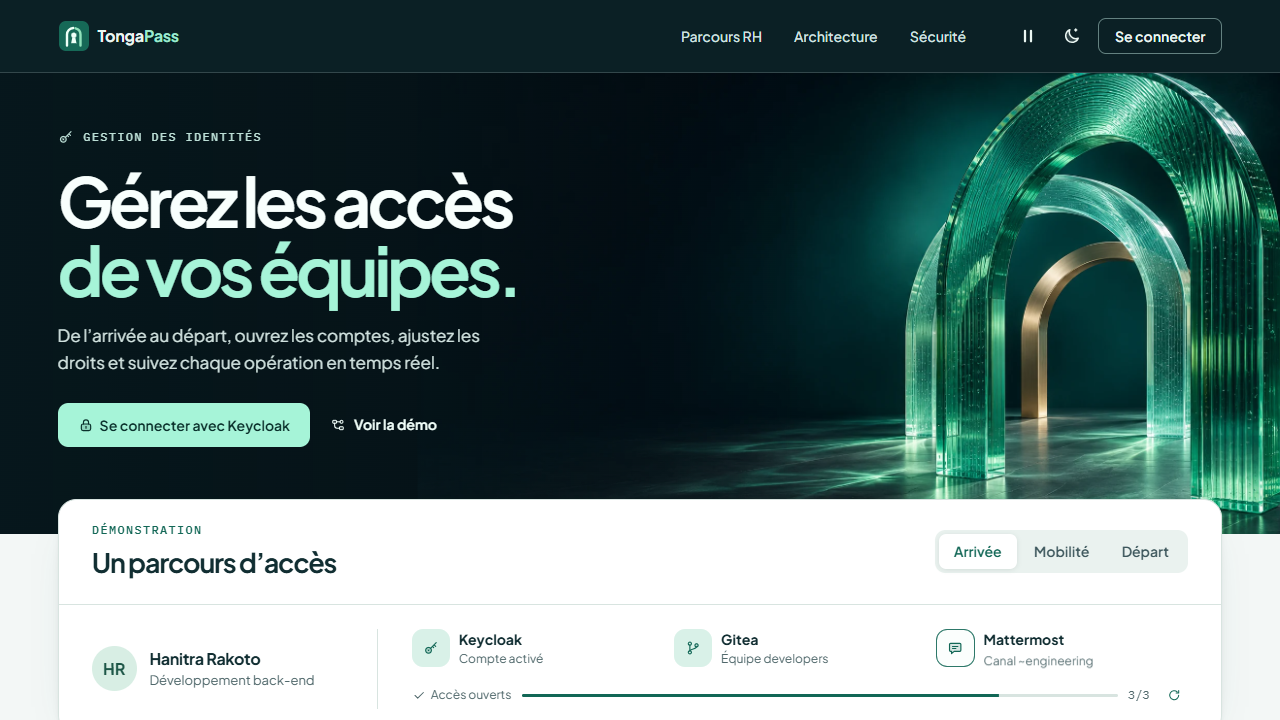
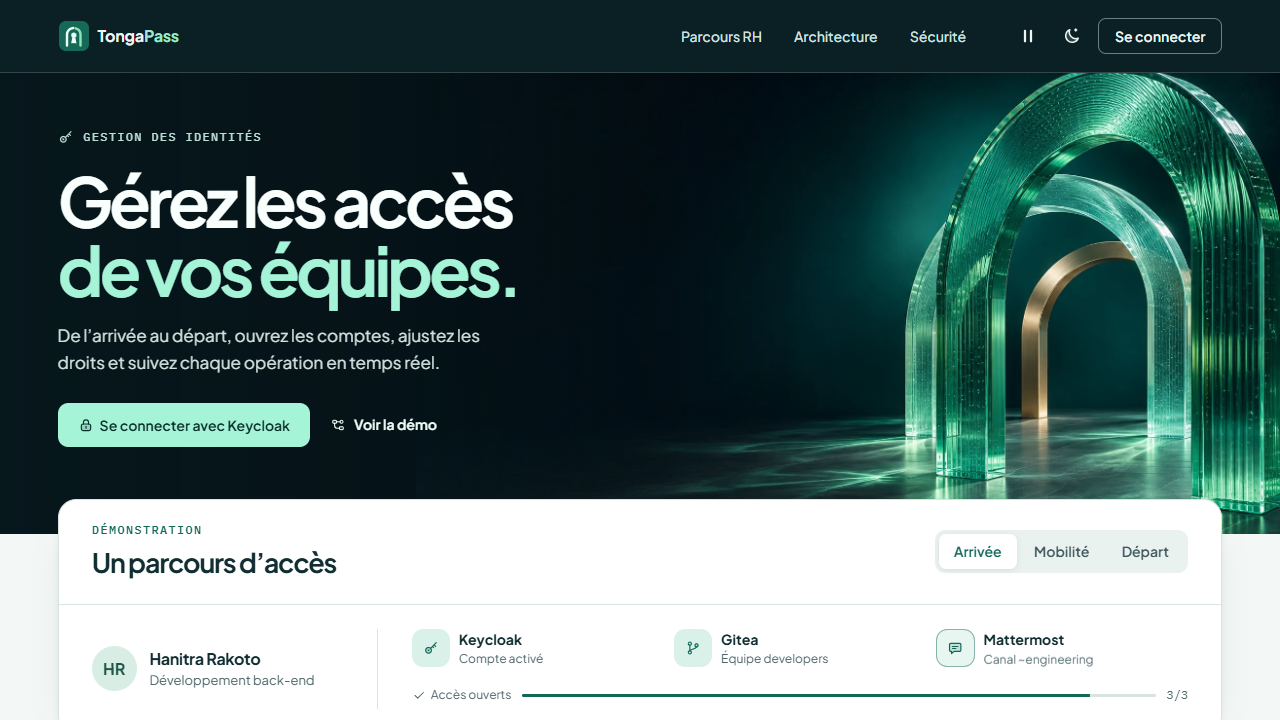
ui: retirer les boutons Rejouer de la démonstration

Changed region(s): [[0.8125, 0.0917, 1.0, 0.7333], [0.7812, 0.9167, 0.8438, 0.9778], [0.875, 0.9472, 0.9375, 0.9778]]

diff --git a/apps/portal/src/components/landing/FlowDiagram.tsx b/apps/portal/src/components/landing/FlowDiagram.tsx
@@ -1,7 +1,6 @@
-import { useId, useState } from 'react';
+import { useId } from 'react';
 import { useVisiblePlayback } from '@/hooks/useVisiblePlayback';
 import { FLOW_STEPS } from './flow-steps';
-import { IconRetry } from '@/components/icons';
 import { IconAutomation, IconBranch, IconChat, IconKey, IconLayers, IconLedger, IconMail, IconPeople, type IconComponent } from '@/components/icons';
 
 interface Node {
@@ -42,10 +41,9 @@ const EDGES = [
  * Le portail appelle l'API, qui déclenche n8n ; n8n agit sur
  * chaque outil et renvoie des rappels signés (en pointillés) vers l'API.
  */
-export function FlowDiagram({ enabled, reduced }: { enabled: boolean; reduced: boolean }) {
+export function FlowDiagram({ enabled }: { enabled: boolean }) {
   const uid = useId().replace(/:/g, '');
   const { ref, playing } = useVisiblePlayback<HTMLDivElement>(enabled);
-  const [playback, setPlayback] = useState(0);
   return (
     <div ref={ref} className="architecture-flow" data-playing={playing}>
       <div className="architecture-map panel mt-6 hidden rounded-2xl p-6 lg:block">
@@ -58,7 +56,7 @@ export function FlowDiagram({ enabled, reduced }: { enabled: boolean; reduced: b
           {EDGES.map((edge) => (
             <g key={edge.id}>
               <path d={edge.d} fill="none" stroke={'back' in edge ? 'var(--tp-accent)' : 'var(--tp-ink-3)'} strokeWidth="1.4" strokeDasharray={'back' in edge ? '5 4' : undefined} />
-              <path key={playback} className="flow-packet" data-edge={edge.id} d={edge.d} fill="none" pathLength="1" stroke="var(--tp-brand)" strokeLinecap="round" strokeWidth="3" strokeDasharray=".09 1.1" aria-hidden="true" />
+              <path className="flow-packet" data-edge={edge.id} d={edge.d} fill="none" pathLength="1" stroke="var(--tp-brand)" strokeLinecap="round" strokeWidth="3" strokeDasharray=".09 1.1" aria-hidden="true" />
               {'label' in edge ? (
                 <text x={edge.lx} y={edge.ly} textAnchor="middle" className="fill-ink-3 text-[11px]">
                   {edge.label}
@@ -90,10 +88,9 @@ export function FlowDiagram({ enabled, reduced }: { enabled: boolean; reduced: b
           ))}
         </svg>
       </div>
-      <ol key={playback} className="flow-list mt-5 space-y-3 text-ink-2 lg:hidden">
+      <ol className="flow-list mt-5 space-y-3 text-ink-2 lg:hidden">
         {FLOW_STEPS.map((step) => <li key={step.title}><strong className="text-ink">{step.title}.</strong> {step.text}</li>)}
       </ol>
-      {!reduced && <button className="diagram-replay" disabled={!enabled} type="button" onClick={() => setPlayback((previous) => previous + 1)}><IconRetry aria-hidden="true" />Rejouer le flux</button>}
     </div>
   );
 }

diff --git a/apps/portal/src/components/landing/AccessPassExample.tsx b/apps/portal/src/components/landing/AccessPassExample.tsx
@@ -1,6 +1,6 @@
 import { Tabs } from 'radix-ui';
 import { useEffect, useState } from 'react';
-import { IconBranch, IconChat, IconCheck, IconKey, IconRetry } from '@/components/icons';
+import { IconBranch, IconChat, IconCheck, IconKey } from '@/components/icons';
 import { useVisiblePlayback } from '@/hooks/useVisiblePlayback';
 
 const SYSTEMS = [
@@ -23,7 +23,6 @@ interface PlaybackProps {
 function Sequence({ scenario, enabled, reduced }: PlaybackProps & { scenario: (typeof SCENARIOS)[number] }) {
   const { ref, playing } = useVisiblePlayback<HTMLDivElement>(enabled);
   const [completed, setCompleted] = useState(0);
-  const [restart, setRestart] = useState(0);
   const done = reduced ? SYSTEMS.length : completed;
 
   useEffect(() => {
@@ -31,7 +30,7 @@ function Sequence({ scenario, enabled, reduced }: PlaybackProps & { scenario: (t
     const finished = completed === SYSTEMS.length;
     const timer = window.setTimeout(() => setCompleted(finished ? 0 : completed + 1), finished ? 2400 : 850);
     return () => window.clearTimeout(timer);
-  }, [playing, completed, restart]);
+  }, [playing, completed]);
 
   return (
     <div className="demo-grid" ref={ref} data-playing={playing}>
@@ -52,10 +51,6 @@ function Sequence({ scenario, enabled, reduced }: PlaybackProps & { scenario: (t
           <span className="demo-status">{done === SYSTEMS.length ? <><IconCheck />{scenario.state}</> : 'Mise à jour des accès'}</span>
           <span className="demo-meter" aria-hidden="true"><i style={{ transform: `scaleX(${done / SYSTEMS.length})` }} /></span>
           <span className="font-mono tabular">{done}/{SYSTEMS.length}</span>
-          {!reduced && <button type="button" title="Rejouer l’exemple" aria-label="Rejouer l’exemple" disabled={!enabled} onClick={() => {
-            setCompleted(0);
-            setRestart((value) => value + 1);
-          }}><IconRetry /></button>}
         </div>
       </div>
     </div>

diff --git a/e2e/stack/accessibility.spec.ts b/e2e/stack/accessibility.spec.ts
@@ -49,8 +49,7 @@ test('accueil (build de production, CSP active) : aucune violation grave', async
   await expect(demo.getByText('Accès ouverts')).toBeVisible();
   await expect(demo.getByText('En cours…')).toBeVisible();
   await expect(demo.getByText('Accès ouverts')).toBeVisible();
-  await demo.getByRole('button', { name: 'Rejouer l’exemple' }).click();
-  await expect(demo.getByText('En cours…')).toBeVisible();
+  await expect(page.getByRole('button', { name: /Rejouer/ })).toHaveCount(0);
   const pause = page.getByRole('button', { name: 'Mettre les animations en pause' });
   await pause.focus();
   await pause.press('Enter');
@@ -67,8 +66,6 @@ test('accueil (build de production, CSP active) : aucune violation grave', async
   await page.locator('.architecture-map').scrollIntoViewIfNeeded();
   const iteration = () => packet.evaluate((path) => Number(path.getAnimations()[0]?.effect?.getComputedTiming().currentIteration ?? 0));
   await expect.poll(iteration, { timeout: 15_000 }).toBeGreaterThan(await iteration());
-  await page.getByRole('button', { name: 'Rejouer le flux' }).click();
-  await expect.poll(iteration).toBe(0);
   await page.setViewportSize({ width: 320, height: 740 });
   const firstStep = page.locator('.flow-list li').first();
   await firstStep.scrollIntoViewIfNeeded();

diff --git a/apps/portal/src/styles/landing.css b/apps/portal/src/styles/landing.css
@@ -64,9 +64,6 @@
 .demo-progress { display: flex; align-items: center; gap: .65rem; min-height: 1.75rem; margin-top: .85rem; color: var(--tp-ink-3); font-size: .75rem; }
 .demo-status { display: flex; align-items: center; gap: .3rem; }
 .demo-progress svg { width: .9rem; height: .9rem; }
-.demo-progress button { display: grid; place-items: center; width: 1.75rem; height: 1.75rem; border-radius: .45rem; color: var(--tp-brand); }
-.demo-progress button:disabled { opacity: .35; }
-.demo-progress button:hover:enabled { background: var(--tp-brand-soft); }
 .demo-meter { flex: 1; overflow: hidden; height: 3px; border-radius: 4px; background: var(--tp-line); }
 .demo-meter i { display: block; height: 100%; background: var(--tp-brand); transform-origin: left; transition: transform 410ms var(--ease-out); }
 .section-title { font-size: clamp(1.75rem, 3.5vw, 3rem); line-height: 1.1; font-weight: 630; letter-spacing: -.05em; }

diff --git a/apps/portal/src/styles/index.css b/apps/portal/src/styles/index.css
@@ -312,9 +312,6 @@
 .flow-packet { display: none; }
 .flow-list li { position: relative; padding-left: 1.2rem; }
 .flow-list li::before { content: ''; position: absolute; left: 0; top: .55em; width: .5rem; height: .5rem; border: 1.5px solid var(--tp-brand); border-radius: 50%; }
-.diagram-replay { display: flex; align-items: center; gap: .4rem; margin-left: auto; border-radius: .5rem; padding: .4rem .6rem; color: var(--tp-brand); font-size: .875rem; font-weight: 600; }
-.diagram-replay:hover { background: var(--tp-brand-soft); }
-.diagram-replay svg { width: 1rem; }
 .timeline-marker { transition: color 180ms, background-color 220ms, border-color 180ms; }
 @media (prefers-reduced-motion: no-preference) {
   .signal-stroke { animation: signal-trace 1.35s ease-out; }

diff --git a/apps/portal/src/pages/LandingPage.tsx b/apps/portal/src/pages/LandingPage.tsx
@@ -65,7 +65,7 @@ export function LandingPage() {
             <h2 className="section-title" id="architecture-title">Comment circulent les accès&nbsp;?</h2>
             <p className="section-intro">Le portail transmet la demande à n8n. Chaque outil applique les changements et l’API enregistre leur résultat.</p>
           </div>
-          <FlowDiagram enabled={enabled} reduced={reduced} />
+          <FlowDiagram enabled={enabled} />
         </section>
         <section id="securite" className="landing-wrap security-section" aria-labelledby="security-title">
           <h2 className="section-title" id="security-title"><IconShieldCheck className="mb-3 size-8 text-brand" />Contrôle des accès</h2>

diff --git a/docs/rapport-verification.md b/docs/rapport-verification.md
@@ -147,6 +147,6 @@ La recette de cycle de vie utilise un employé fictif. Son départ termine le pa
 
 Dans Edge, un gestionnaire RH déclare une arrivée pendant qu’un second onglet affiche le tableau de bord. Le second onglet reçoit l’étape Keycloak et la fin de l’exécution sans rechargement. Les deux entrées du fil ouvrent la même exécution. Le test vérifie aussi qu’elle apparaît une seule fois comme « en cours » pendant les rappels successifs de n8n. [Capture du fil d’activité](screenshots/activite-en-direct.png)
 
-La démonstration publique joue les trois étapes à l’écran et peut être relancée. À 375 px, les flèches du clavier sélectionnent les trois mouvements. Avec la réduction des animations activée, chaque scénario présente directement son résultat. [Accueil sur ordinateur](screenshots/accueil.png) · [Accueil sur téléphone](screenshots/accueil-mobile.png)
+La démonstration publique joue les trois étapes puis recommence automatiquement. Le test observe deux passages consécutifs, active la pause au clavier et vérifie que la lecture reprend. À 375 px, les flèches du clavier sélectionnent les trois mouvements. Avec la réduction des animations activée, chaque scénario présente directement son résultat. [Accueil sur ordinateur](screenshots/accueil.png) · [Accueil sur téléphone](screenshots/accueil-mobile.png)
 
 Après correction du contraste des initiales du profil, axe-core ne détecte aucune violation grave ou critique sur l’accueil et sur les huit écrans authentifiés testés en clair et en sombre.
